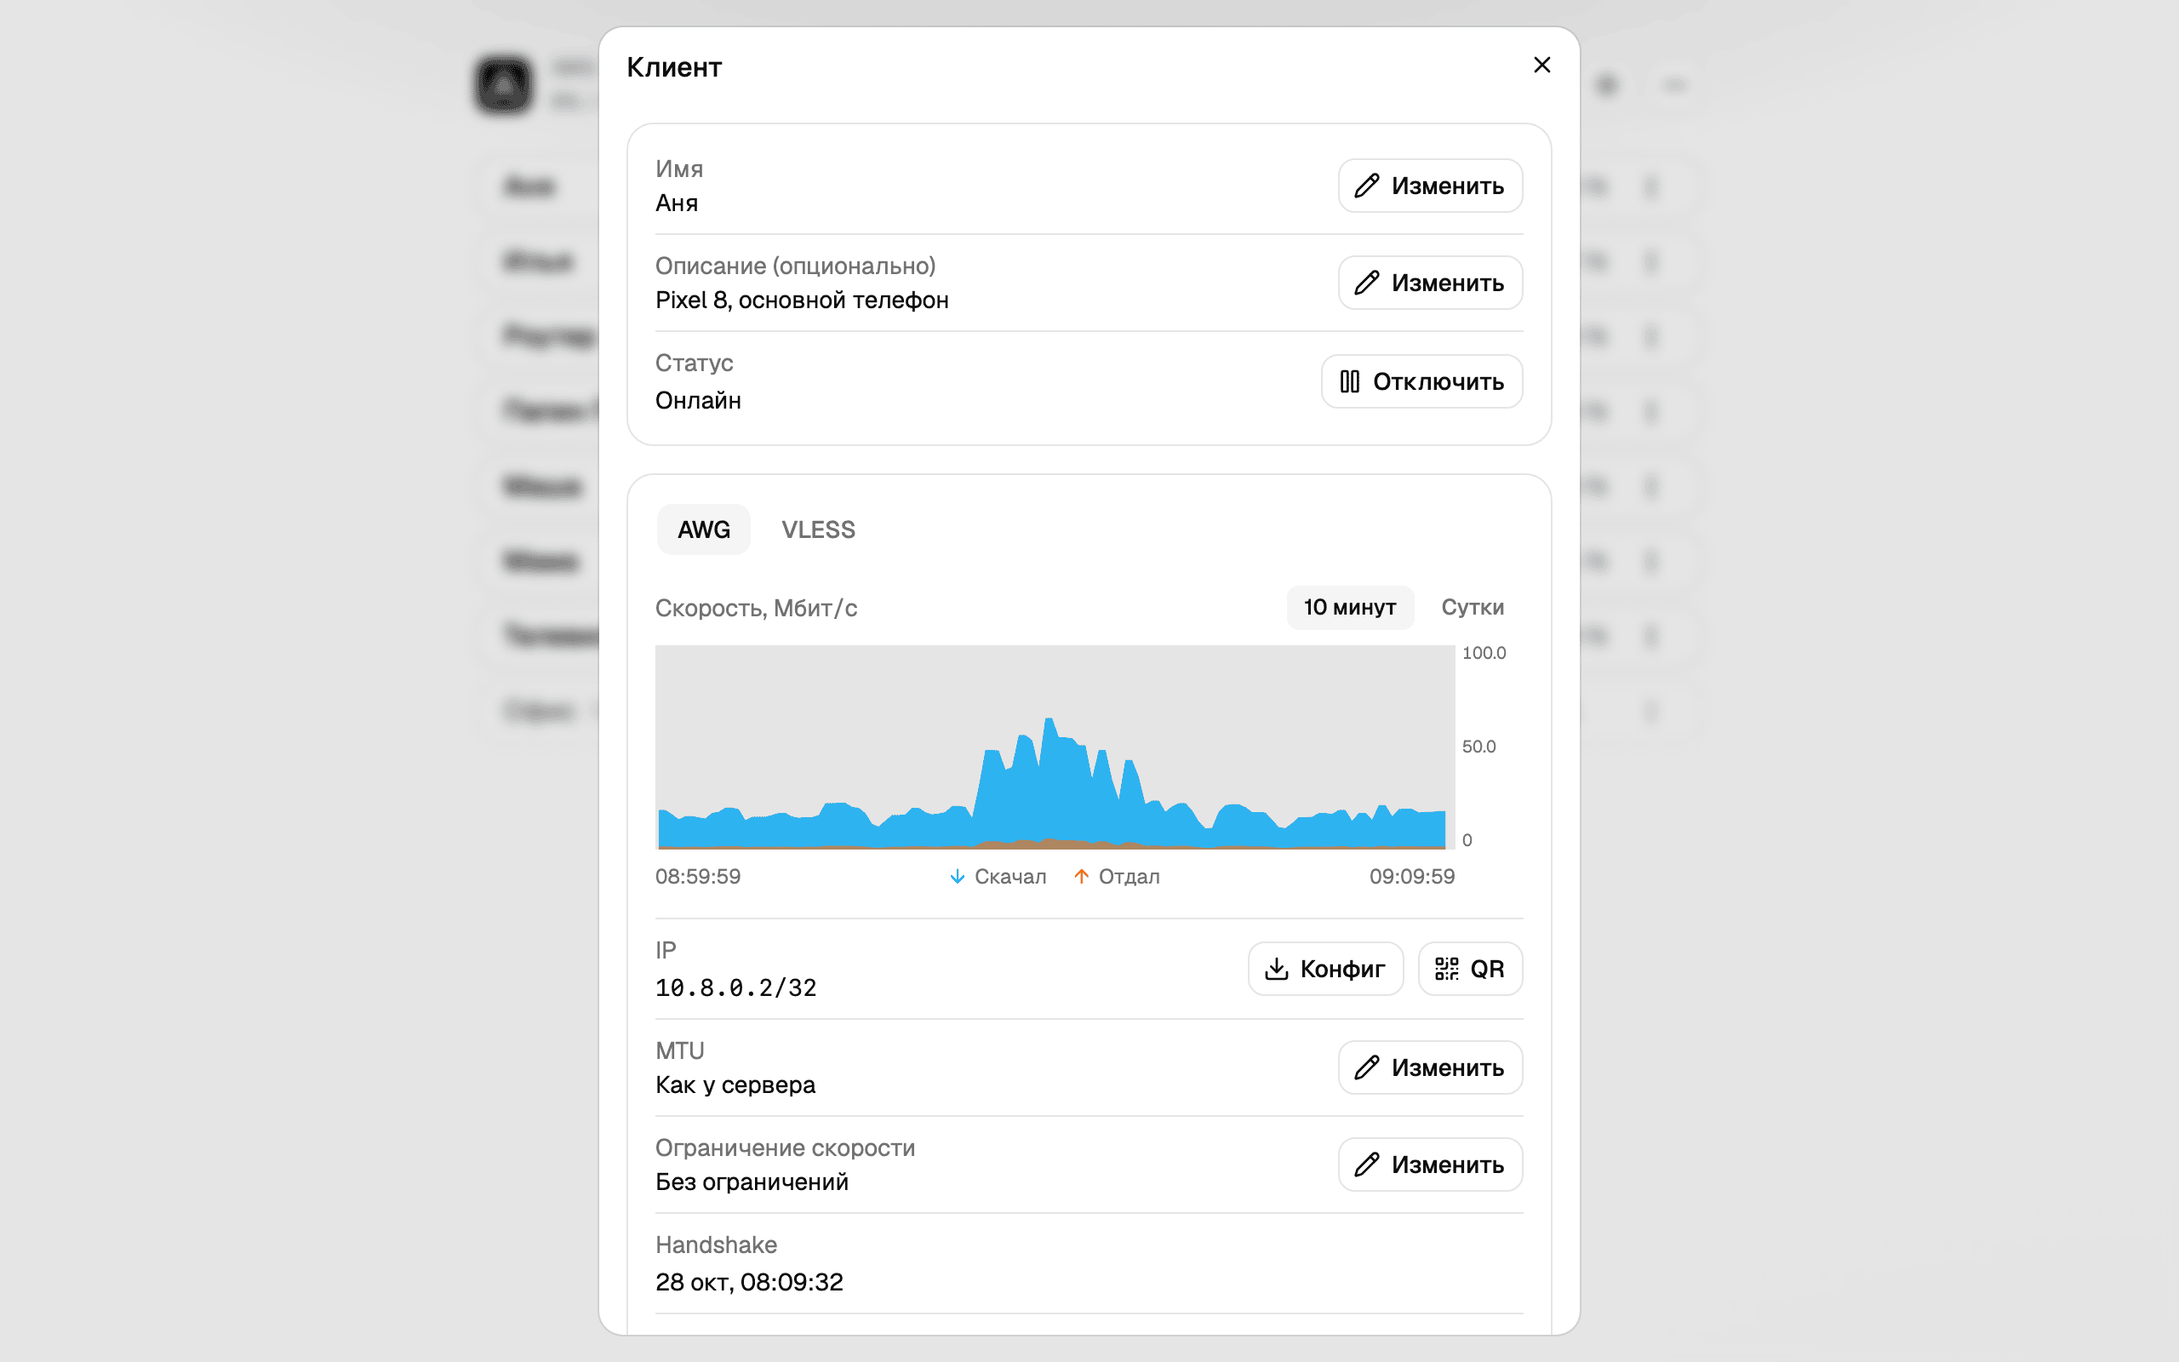
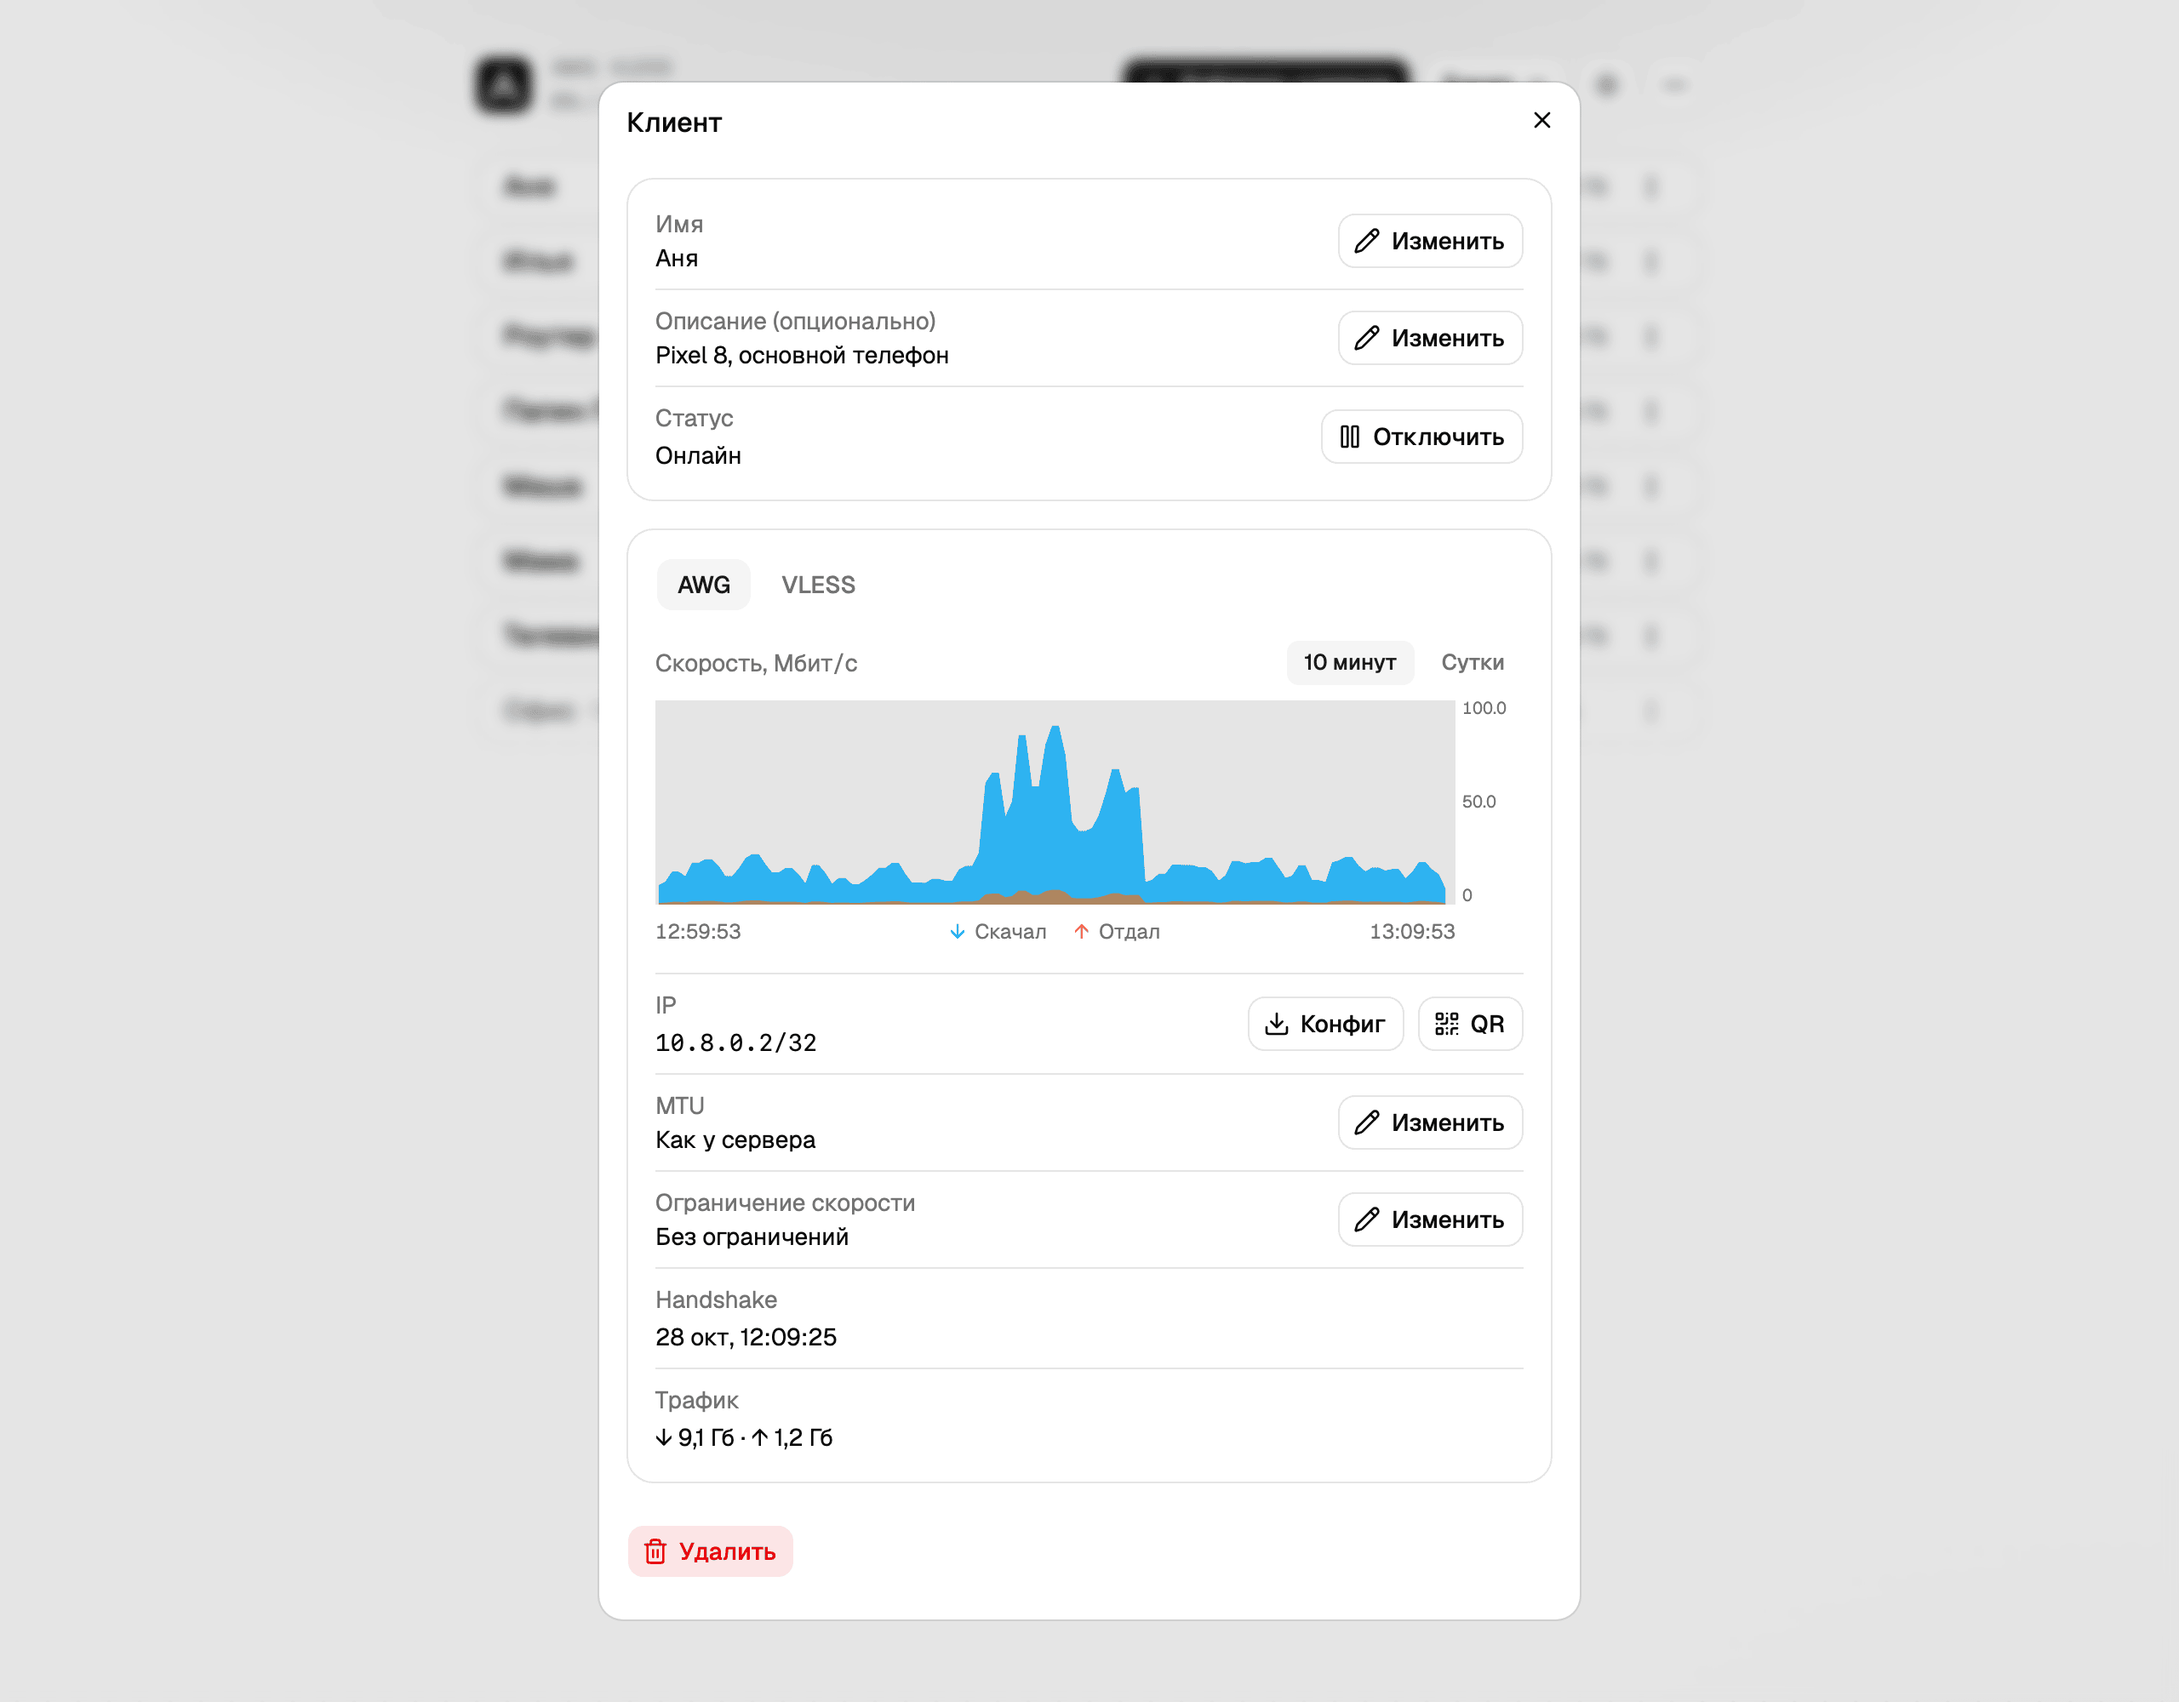
Скриншоты окна клиента и QR показывали вид до 14y0.17, окно клиента не влезало целиком, а список под скриншотами описывал шапку и карточку до VLESS.
Пересняты client, qr и mobile скриптом npm run screenshots: окно клиента
снимается во вьюпорте 1280×1000 и видно целиком, QR — с переключателем
маршрута в строке вкладок. В README.md и README.en.md список под
скриншотами говорит о состоянии AWG и VLESS в шапке, значке протокола у
карточки и окне клиента.

amnezia-vpn-server-14y0.15

diff --git a/README.md b/README.md
@@ -129,8 +129,9 @@ Endpoint:  example.com:4500
 
 <p align="center"><img src="screenshots/mobile.png" width="280" alt="Главный экран панели на телефоне: в шапке AWG и VLESS, у клиентов значок протокола"><br>Та же панель на телефоне</p>
 
-- **Шапка.** Загрузка процессора, памяти и диска, состояние туннеля
-- **Клиенты.** У каждого карточка: имя, адрес, включён ли, когда выходил на связь, сколько трафика получил и отправил
+- **Шапка.** Состояние AWG и VLESS (красным, если протокол не работает) и загрузка процессора, памяти и диска
+- **Клиенты.** У каждого карточка: имя, значок протокола, по которому клиент выходил на связь последним, когда это было, сколько скачал и отдал. Выключенный помечен «Пауза»
+- **Окно клиента.** Открывается по имени: вкладки AWG и VLESS, график скорости, IP-адрес, конфиг и QR-код
 - **Кнопка «Бэкап».** Скачать или загрузить файл с настройками
 - **Меню «Ещё».** Версии, состояние служб, журнал, проверка обновлений и «Уведомления» — письма о сбоях на почту
 

diff --git a/README.en.md b/README.en.md
@@ -129,8 +129,9 @@ Everything is managed in the browser.
 
 <p align="center"><img src="screenshots/mobile.png" width="280" alt="Main panel screen on a phone: AWG and VLESS in the header, a protocol icon on each client"><br>The same panel on a phone</p>
 
-- **Header.** CPU, memory and disk load, tunnel state
-- **Clients.** One card each: name, address, whether it is enabled, when it last connected, how much traffic it received and sent
+- **Header.** State of AWG and VLESS (red if a protocol is not working), then CPU, memory and disk load
+- **Clients.** One card each: name, an icon for the protocol the client last connected over, when that was, how much it downloaded and uploaded. A disabled client is marked "Пауза" (Paused)
+- **Client window.** Opens on the name: AWG and VLESS tabs, speed chart, IP address, config and QR code
 - **"Бэкап" (Backup) button.** Download or upload the settings file
 - **"Ещё" (More) menu.** Versions, service status, log, update check and "Уведомления" (Notifications), which sends failure alerts by email
 
